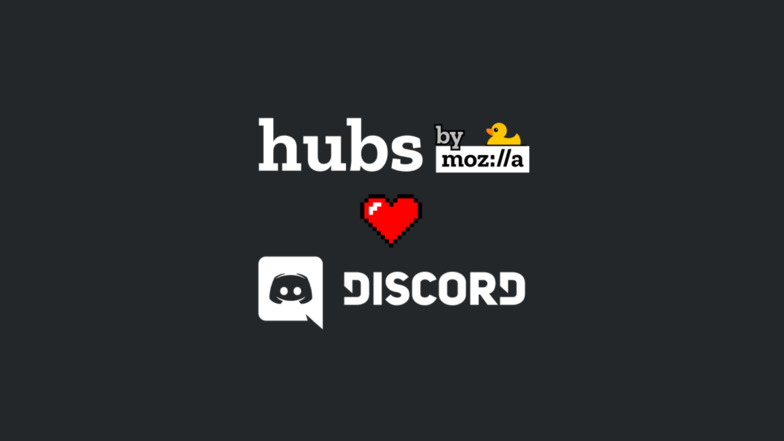
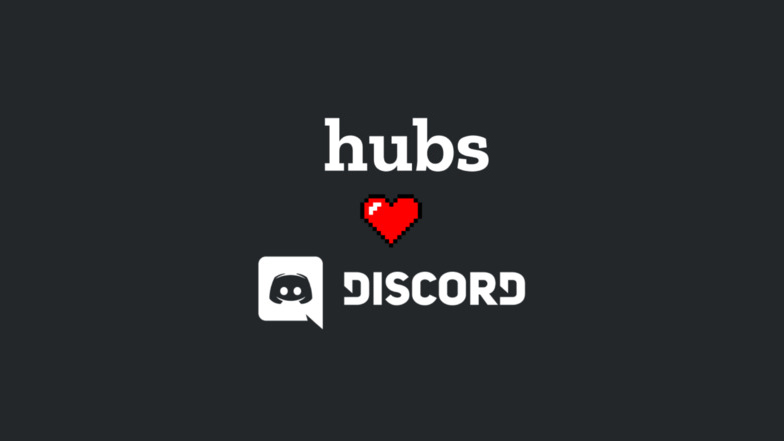
new branch: minor updates to mozilla branding removal including removal of commented items and one missed mention of Mozilla

Changed region(s): [[0.3061, 0.2653, 0.6735, 0.4127]]

diff --git a/website/siteConfig.js b/website/siteConfig.js
@@ -59,7 +59,7 @@ const siteConfig = {
 
   algolia: {
     apiKey: '227afb429135813e4d9d2339ea8a18c7',
-    //indexName: 'mozilla_hub', //saved just to make sure my change doesn't break the docs
+    //indexName: 'mozilla_hub', //holding this to make sure nothing breaks
     indexName: 'hubsfoundation_docs',
     algoliaOptions: {}, // Optional, if provided by Algolia
   },
